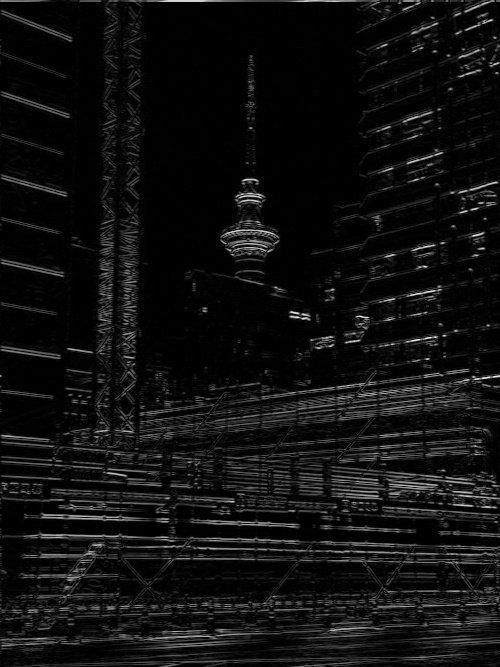
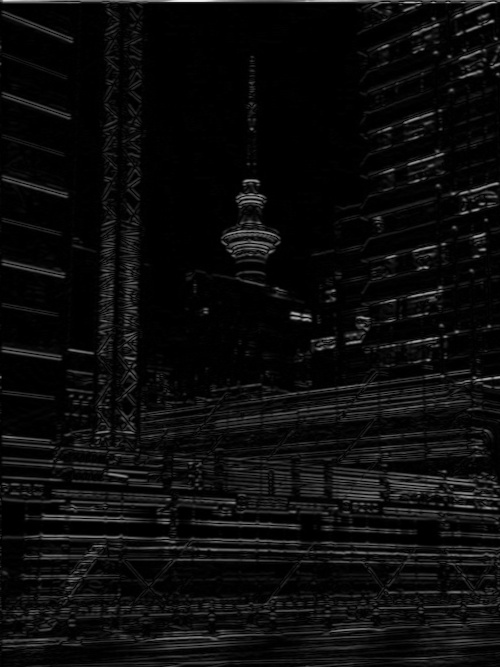
changes to gauss blur

diff --git a/gaussianblur.py b/gaussianblur.py
@@ -1,4 +1,3 @@
-from re import M
 import time
 import numpy as np
 import cv2
@@ -59,12 +58,18 @@ def sepblur(img):
 	return output2
 
 def cv2prewitt(img):
+	output = np.zeros_like(img)
 	kernelx = np.array([[1,1,1],[0,0,0],[-1,-1,-1]])
 	kernely = np.array([[-1,0,1],[-1,0,1],[-1,0,1]])
 	img_prewittx = cv2.filter2D(img, -1, kernelx)
 	img_prewitty = cv2.filter2D(img, -1, kernely)
-	cv2.imwrite('opencv2prewittx.jpg',img_prewittx)
-	cv2.imwrite('opencv2prewitty.jpg',img_prewitty)
+	#cv2.imwrite('opencv2prewittx.jpg',img_prewittx)
+	#cv2.imwrite('opencv2prewitty.jpg',img_prewitty)
+	for r in range(img.shape[0]):
+		for c in range(img.shape[1]):
+			output[r][c] = np.sqrt(pow(img_prewittx[r][c],2) + pow(img_prewitty[r][c],2))
+
+	cv2.imwrite('cv2prewitt.jpg',output)
 
 def prewitt(gray_img):
 	output = np.zeros_like(gray_img)
@@ -101,11 +106,13 @@ def prewitt(gray_img):
                 #(vertical[2, 1] * gray_img[i + 1, j]) + \
                 #(vertical[2, 2] * gray_img[i + 1, j + 1])
 
-    			# Edge Magnitude
+    		# Edge Magnitude
 			mag = np.sqrt(pow(hori, 2.0) + pow(vert, 2.0))
 			output[i - 1, j - 1] = mag
 
 	cv2.imwrite('prewitt.jpg',output)
+	#cv2.imshow('prewitt',output)
+	#cv2.waitKey(0)
 
 
 def sepprewitt(img):
@@ -116,7 +123,7 @@ def sepprewitt(img):
 	out = np.zeros_like(img)
 	boxc = np.array([[1],[1],[1]])/3
 	prewr = np.array([1,0,-1])
-	boxr = np.array([1,1,1])
+	boxr = np.array([1,1,1])/3
 	prewc = np.array([[1],[0],[-1]])
 	rows = img.shape[0]
 	cols = img.shape[1]
@@ -168,6 +175,8 @@ def sepprewitt(img):
 
 	cv2.imwrite('sep_prewitt.jpg',out)
 	#cv2.imwrite('prewittadd.jpg',hori + vert)
+	#cv2.imshow('sep prewitt',out)
+	#cv2.waitKey(0)
 
 def opencvgaussian(img):
 	cv2.imwrite('opencvgaussian.jpg',cv2.GaussianBlur(img, (3,3),0))
@@ -186,8 +195,8 @@ def start():
 	grayimg = grayscale(cv2.imread(imgpath))
 	#img = blur(grayimg)
 	img = sepblur(grayimg)
-	#prewitt(img)
-	sepprewitt(grayimg)
+	prewitt(img)
+	#sepprewitt(img)
 	#cv2prewitt(img)
 	#cv2.imwrite('opencvblurred.jpg',cv2.GaussianBlur(grayimg,(3,3),0))
 	#print(f"average time in seconds (5 trials):  {speedtest(opencvgaussian,grayimg)} seconds")
